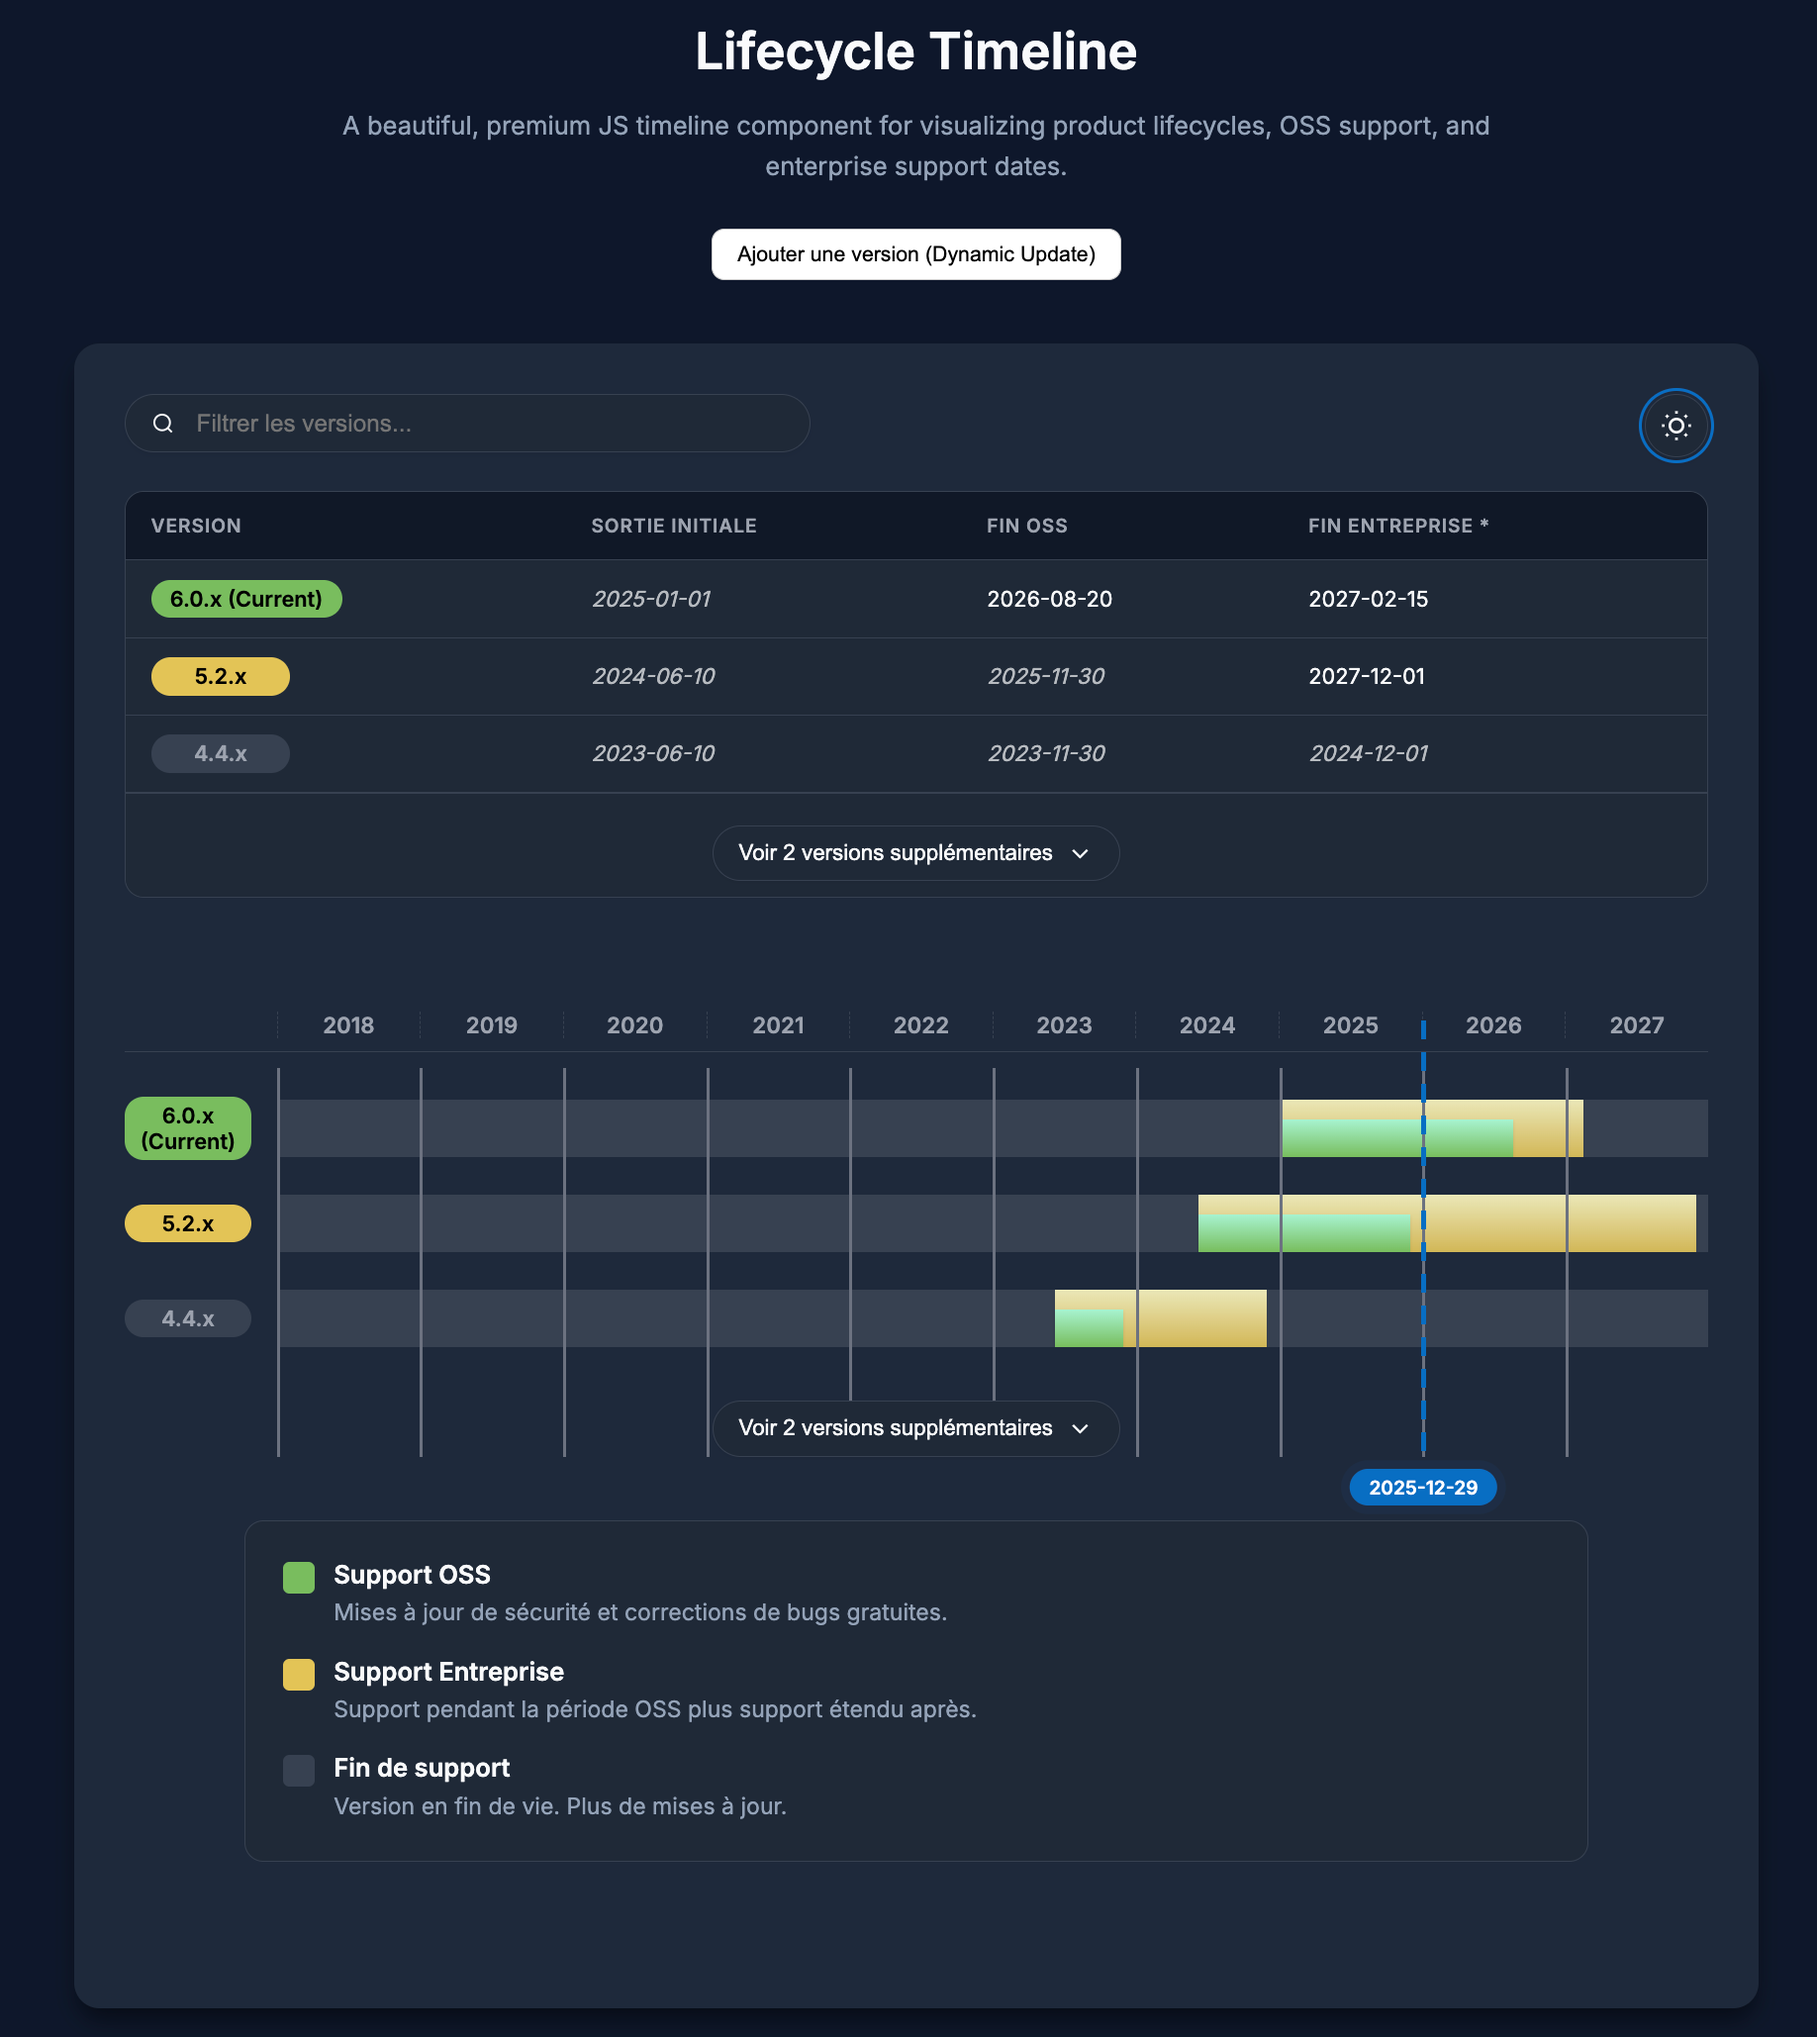
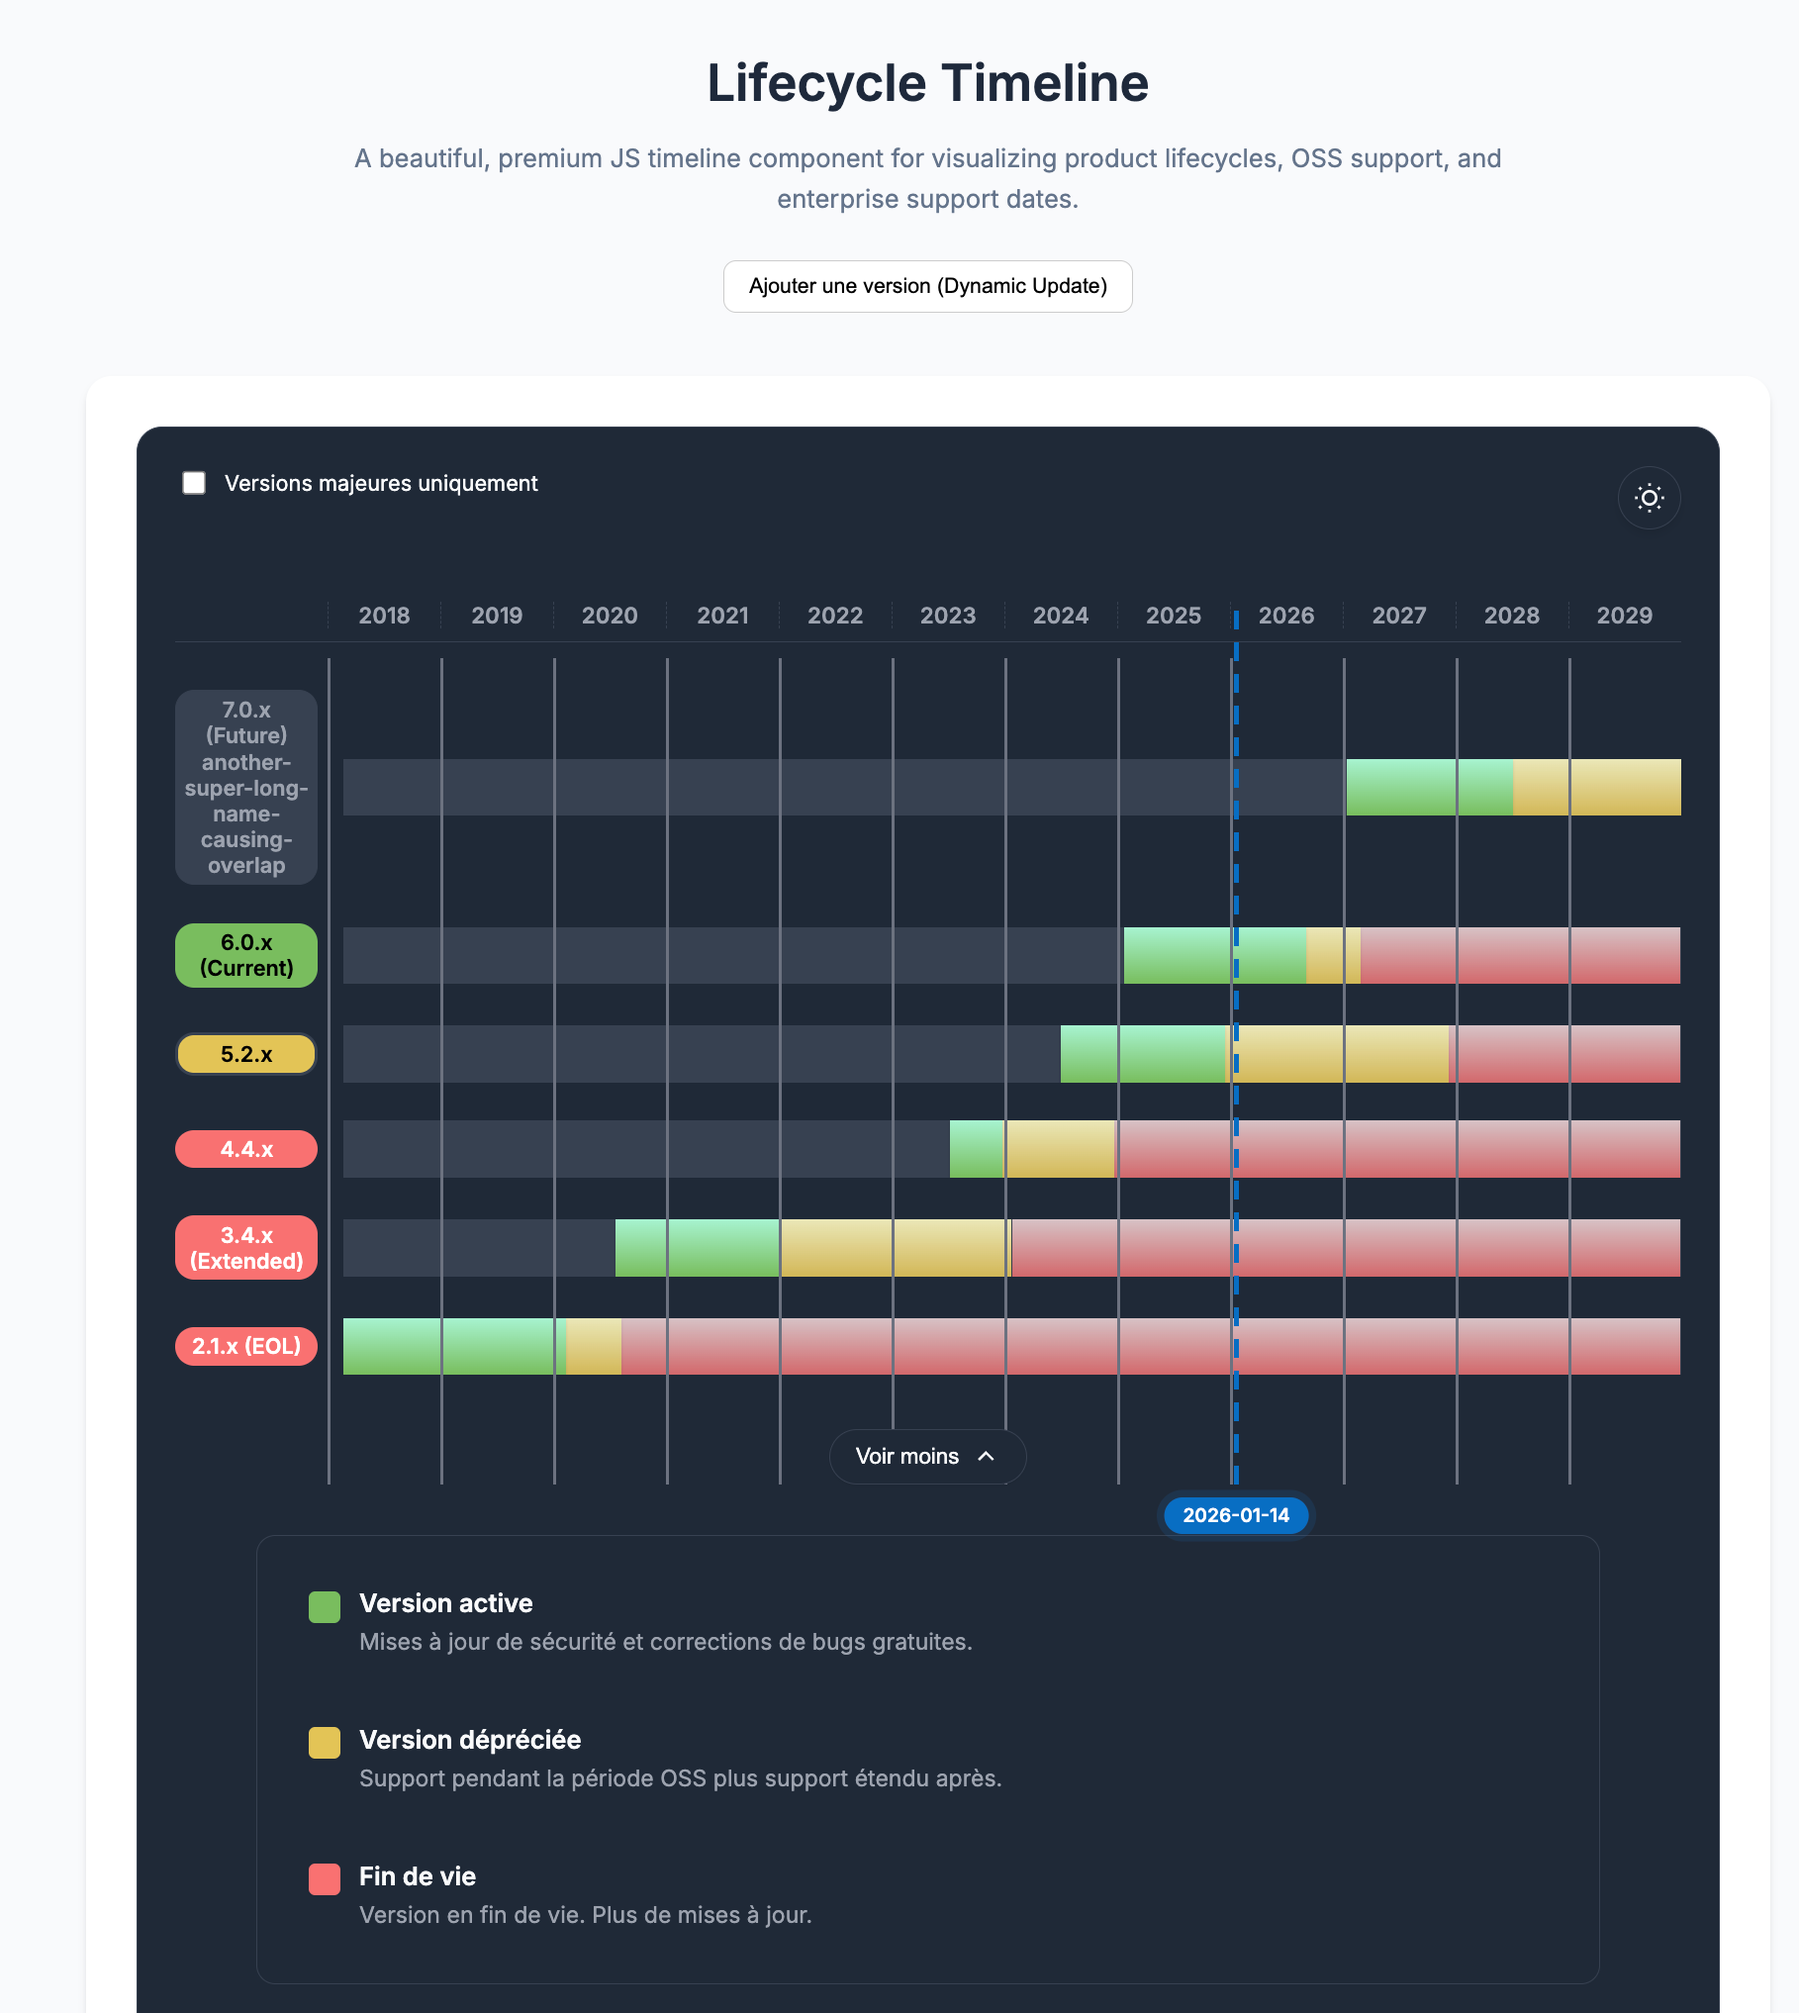
fix versions overlapping + screenshot updated

diff --git a/repro.html b/repro.html
@@ -1,0 +1,48 @@
+<!DOCTYPE html>
+<html lang="en">
+
+<head>
+    <meta charset="UTF-8">
+    <meta name="viewport" content="width=device-width, initial-scale=1.0">
+    <title>Timeline Repro</title>
+    <link rel="stylesheet" href="./src/timeline.css">
+    <style>
+        body {
+            padding: 40px;
+            font-family: sans-serif;
+        }
+    </style>
+</head>
+
+<body>
+    <div id="timeline"></div>
+
+    <script type="module">
+        import Timeline from './src/timeline.js';
+
+        const data = [
+            {
+                version: "v1.0.0-very-long-version-name-that-wil-wrap",
+                ossStart: "2023-01-01",
+                ossEnd: "2023-06-01",
+                enterpriseEnd: "2023-12-31"
+            },
+            {
+                version: "v1.1.0-another-super-long-name-causing-overlap",
+                ossStart: "2023-06-01",
+                ossEnd: "2023-12-01",
+                enterpriseEnd: "2024-06-01"
+            },
+            {
+                version: "v1.2.0-short",
+                ossStart: "2023-12-01",
+                ossEnd: "2024-06-01",
+                enterpriseEnd: "2024-12-31"
+            }
+        ];
+
+        new Timeline('timeline', data);
+    </script>
+</body>
+
+</html>

diff --git a/src/timeline.css b/src/timeline.css
@@ -116,7 +116,8 @@
     align-items: center;
     margin-bottom: 1.5rem;
     position: relative;
-    height: 36px;
+    min-height: 36px;
+    height: auto;
     z-index: 1;
     opacity: 0;
     transform: translateY(10px);
@@ -129,8 +130,8 @@
 }
 
 .lt-version-label {
-    width: 80px;
-    min-width: 80px;
+    width: 90px;
+    min-width: 90px;
     box-sizing: border-box;
     padding: 4px 4px;
     border-radius: 12px;
@@ -146,6 +147,14 @@
     position: sticky;
     left: 0;
     z-index: 10;
+    white-space: normal;
+    word-wrap: break-word;
+    overflow: visible;
+    /* text-overflow: ellipsis; Removed for dynamic sizing */
+    display: flex;
+    align-items: center;
+    justify-content: center;
+    line-height: 1.2;
 }
 
 .lt-version-label.lt-version-major {
@@ -188,10 +197,16 @@
     color: #ffffff;
 }
 
+.lt-status-future {
+    background-color: var(--bg-track);
+    color: var(--text-secondary);
+    border: 1px solid var(--border-color);
+}
+
 .lt-track-container {
     flex-grow: 1;
     position: relative;
-    height: 100%;
+    height: 36px;
     background: var(--bg-track);
     border-radius: 0;
     overflow: hidden;

diff --git a/src/timeline.js b/src/timeline.js
@@ -522,7 +522,7 @@ export default class Timeline {
     // Status Logic
     const now = Date.now(), s = new Date(item.ossStart).getTime(), e = new Date(item.ossEnd).getTime();
     const ent = item.enterpriseEnd ? new Date(item.enterpriseEnd).getTime() : e;
-    const statusClass = now >= s && now <= e ? 'lt-status-oss' : (now > e && now <= ent ? 'lt-status-ent' : (now > ent ? 'lt-status-expired' : ''));
+    const statusClass = now < s ? 'lt-status-future' : (now >= s && now <= e ? 'lt-status-oss' : (now > e && now <= ent ? 'lt-status-ent' : (now > ent ? 'lt-status-expired' : '')));
     if (statusClass) label.classList.add(statusClass);
 
     if (item.isMajor) {
@@ -537,6 +537,7 @@ export default class Timeline {
       a.setAttribute('aria-label', this.t('notes', { v: item.version }));
     } else {
       label.innerHTML = this.highlight(item.version);
+      label.title = item.version;
     }
 
     const track = this.el('div', 'lt-track-container', row);

diff --git a/index.html b/index.html
@@ -143,10 +143,10 @@
         document.getElementById('update-btn').onclick = () => {
             const newData = [
                 {
-                    version: "7.0.x (Future)",
-                    ossStart: "2026-01-01",
-                    ossEnd: "2027-06-30",
-                    enterpriseEnd: "2028-12-31"
+                    version: "7.0.x (Future) another-super-long-name-causing-overlap",
+                    ossStart: "2027-01-01",
+                    ossEnd: "2028-06-30",
+                    enterpriseEnd: "2029-12-31"
                 },
                 ...data
             ];
